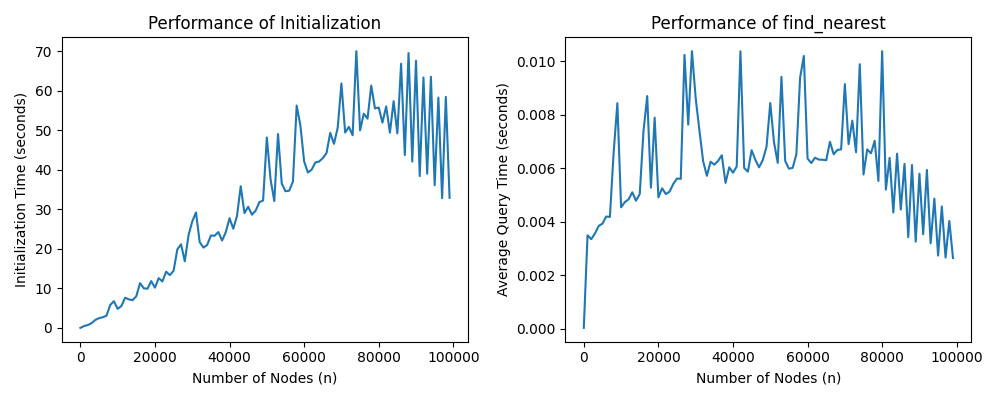
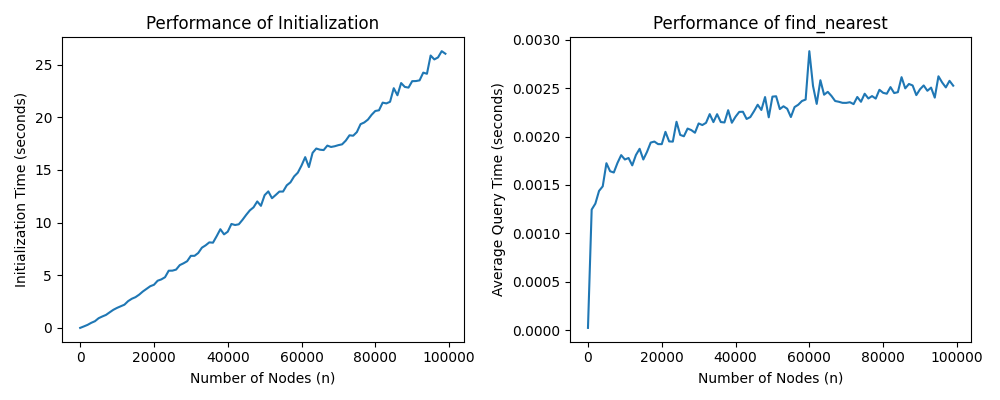
feat: 更新了1-100000个点的没有使用多进程的性能测试图

diff --git a/test_nsw.py b/test_nsw.py
@@ -62,4 +62,4 @@ def plot_results(start=1, end=100001, step=1000, use_multiprocessing=True):
 
 
 if __name__ == '__main__':
-    plot_results(start=1, end=10001, step=100, use_multiprocessing=False)
+    plot_results(start=1, end=100001, step=1000, use_multiprocessing=False)
